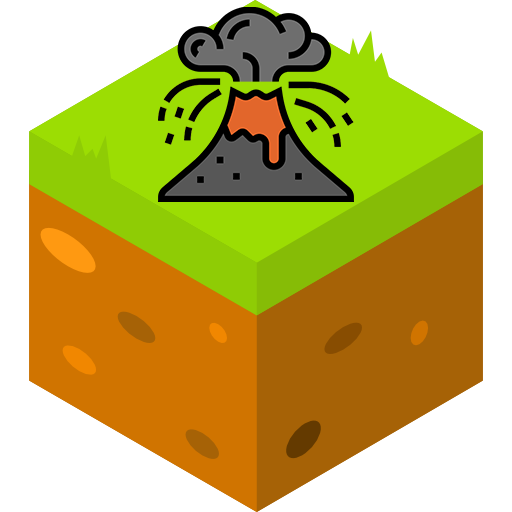
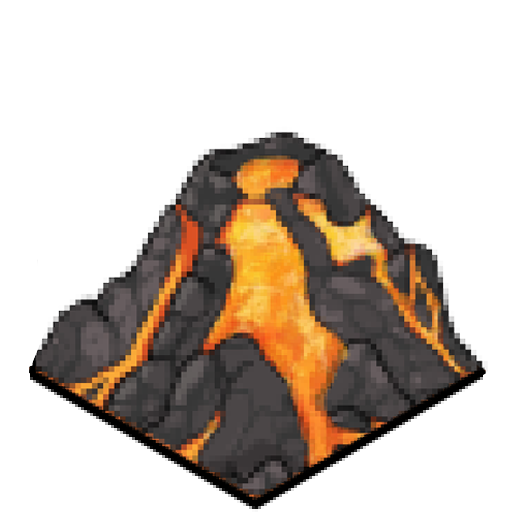
test volcano

diff --git a/docs/src/model/Play.js b/docs/src/model/Play.js
@@ -7,10 +7,17 @@ import {Seed} from "../items/Seed.js";
 import {Plant} from "../items/Plant.js";
 import {InfoBox} from "./InfoBox.js";
 import {PlantActive} from "../items/PlantActive.js";
-import {baseType, enemyTypes, itemTypes, plantTypes, terrainTypes} from "../items/ItemTypes.js";
+import {
+    baseType,
+    enemyTypes,
+    itemTypes as TerrainTypes,
+    itemTypes,
+    plantTypes,
+    terrainTypes
+} from "../items/ItemTypes.js";
 import {FloatingWindow} from "./FloatingWindow.js";
 import {Screen} from "./Screen.js";
-import {VolcanicBomb} from "../items/Volcano.js";
+import {VolcanicBomb, Volcano} from "../items/Volcano.js";
 import {plantEnemyInteractions} from "../items/PlantEnemyInter.js";
 
 export class PlayBoard extends Screen {
@@ -195,15 +202,13 @@ export class PlayBoard extends Screen {
         this.clickedCell(p5);
     }
 
-    undoMove(p5){
-        if(this.lastState === null){
+    undoMove(p5) {
+        if (this.lastState === null) {
             return;
         }
-        else {
-            this.boardObjects = BoardCells.parse(this.lastState, p5);
-            this.actionPoints = Math.min(this.actionPoints + 1, 3);
-            this.lastState = null;
-        }
+        this.boardObjects = BoardCells.parse(this.lastState, p5);
+        this.actionPoints = Math.min(this.actionPoints + 1, 3);
+        this.lastState = null;
     }
 
     draw(p5) {
@@ -326,7 +331,10 @@ export class PlayBoard extends Screen {
                 this.boardObjects.getCell(i, j).drawTerrain(p5, this);
             }
         }
-
+        if(this.boardObjects.getCell(2, 2).terrain.terrainType === terrainTypes.VOLCANO) {
+            let [x1, y1] = myutil.cellIndex2Pos(p5, this, 2, 2, p5.CORNERS);
+            p5.image(p5.images.get("Volcano"), x1 - this.cellWidth * 3 / 2, y1 - this.cellHeight * 3 + this.cellHeight/2 + 1, this.cellWidth * 3, this.cellHeight * 3);
+        }
         // if skill is activated and awaiting target, set highlight on
         if (this.awaitCell) {
             for (let i = 0; i < this.boardObjects.size; i++) {
@@ -441,7 +449,12 @@ export class PlayBoard extends Screen {
         // clicked an item from inventory, then clicked a cell:
         if (this.gameState.inventory.selectedItem !== null && index[0] !== -1) {
             if (this.actionPoints > 0) {
-                this.lastState = this.boardObjects.stringify();
+                try {
+                    // TODO: need to save all object
+                    this.lastState = this.boardObjects.stringify();
+                } catch {
+                    this.lastState = null;
+                }
                 if (this.boardObjects.plantCell(p5, this, index[0], index[1], this.gameState.inventory.createItem(p5, this.gameState.inventory.selectedItem))) {
                     console.log(`Placed ${this.gameState.inventory.selectedItem} at row ${index[0]}, col ${index[1]}`);
                     this.shadowPlant = null;

diff --git a/docs/src/model/BoardCells.js b/docs/src/model/BoardCells.js
@@ -434,7 +434,6 @@ class Cell {
     drawTerrain(p5, playBoard) {
         let [x1, y1, x2, y2, x3, y3, x4, y4] = myutil.cellIndex2Pos(p5, playBoard, this.x, this.y, p5.CORNERS);
         p5.image(this.terrain.img, x1 - playBoard.cellWidth / 2, y1, playBoard.cellWidth, playBoard.cellHeight);
-
         if (this.ecosystem !== null && playBoard.ecoDisplay) {
             p5.fill('rgba(0%, 0%, 100%, 0.5)');
         } else {
@@ -464,13 +463,7 @@ class Cell {
         if (this.terrain) {
             object.terrain = this._terrain.stringify();
         }
-        // return JSON.stringify(object);
-        JSON.stringify(object, function(key, value) {
-            if (key === '_pixelsState' || key === 'cell') {  // 或其他會導致循環的屬性
-                return undefined;
-            }
-            return value;
-        });
+        return JSON.stringify(object);
     }
 
     static parse(json, x, y, p5) {

diff --git a/docs/src/Preloader.js b/docs/src/Preloader.js
@@ -12,6 +12,7 @@ export function loadImages(p5) {
     images.set("PlayerBase", p5.loadImage(basePath + "PlayerBase.png"));
     images.set("Mountain", p5.loadImage(basePath + "Mountain.png"));
     images.set("Volcano", p5.loadImage(basePath + "Volcano.png"));
+    images.set("VolcanoTile", p5.loadImage(basePath + "VolcanoTile.png"));
     images.set("Lava", p5.loadImage(basePath + "LavaTest.png"));
     images.set("LavaS", p5.loadImage(basePath + "LavaSTest.png"));
     images.set("Landslide", p5.loadImage(basePath + "Landslide.png"));

diff --git a/docs/src/items/Volcano.js b/docs/src/items/Volcano.js
@@ -10,7 +10,7 @@ export class Volcano extends Terrain {
         super();
         this.name = "Volcano";
         this.terrainType = terrainTypes.VOLCANO;
-        this.img = p5.images.get(`${this.name}`);
+        this.img = p5.images.get(`VolcanoTile`);
     }
 
     getWeight() {
